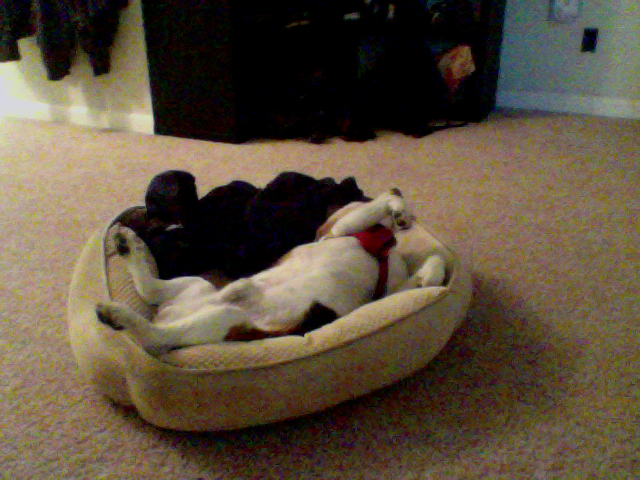
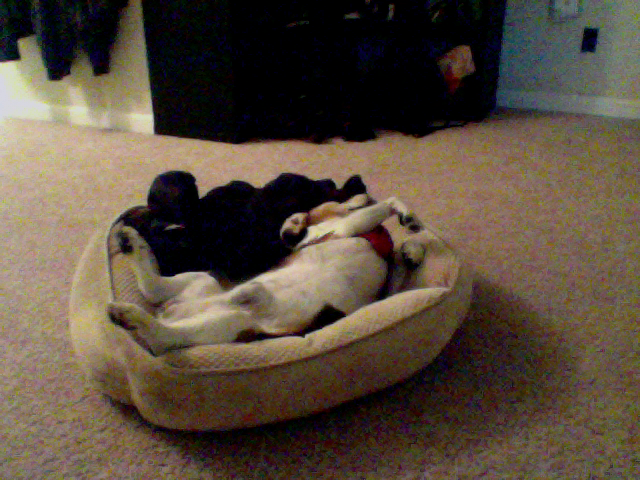
update at Month05Day07Time19:46

diff --git a/index.html b/index.html
@@ -40,7 +40,7 @@
       <div class="row">
         <div class="col-md-4">
 	<p>This picture was updated at Month05Day07Time19:46</p>
-		<img src="1_pic.png" />
+		<img src="2_pic.png" />
         </div>
       </div>
 
